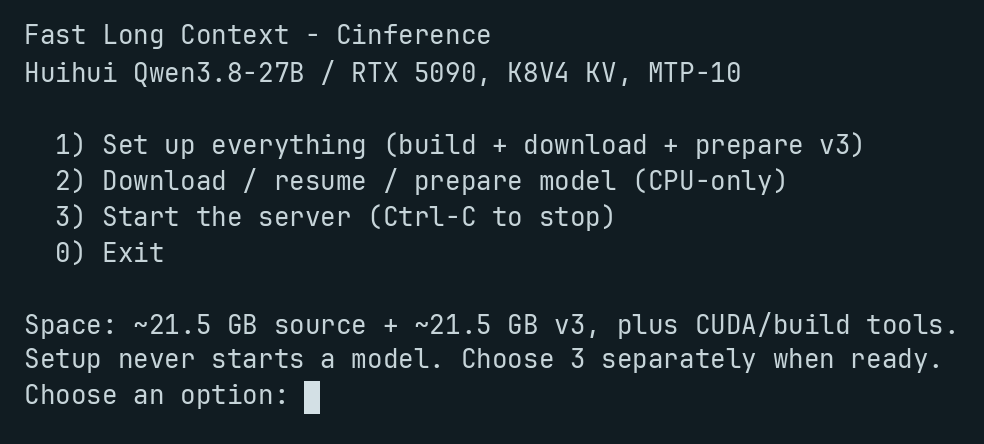
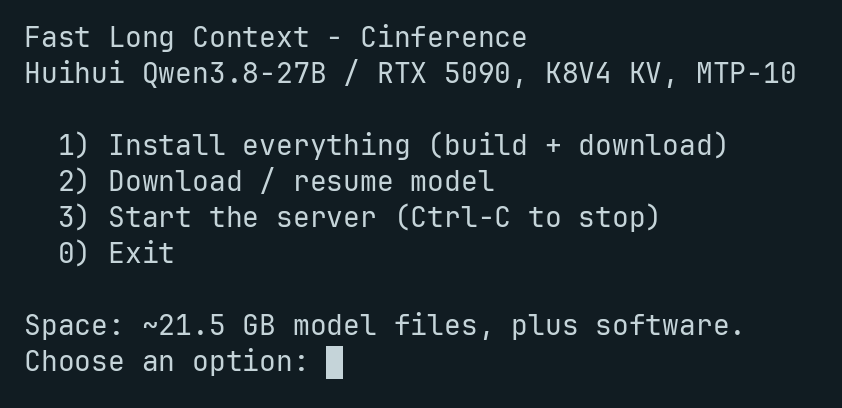
feat: download published Huihui v3 directly

Changed region(s): [[0.0309, 0.2941, 0.8955, 0.6471], [0.0, 0.7059, 0.9572, 0.9412], [0.0, 0.0588, 0.9572, 0.2059]]

diff --git a/scripts/download_models.py b/scripts/download_models.py
@@ -1,22 +1,14 @@
 #!/usr/bin/env python3
-"""Download pinned Huihui NVFP4 files and prepare a CPU-only NInfer v3 artifact."""
+"""Download and verify the pinned Huihui NVFP4 v3 artifact."""
 import argparse
 import fcntl
 import hashlib
 import json
 import os
 from pathlib import Path
-import shutil
 import stat
-import struct
-import subprocess
-import sys
-import tempfile
-import uuid
 
 ROOT = Path(__file__).resolve().parents[1]
-RECEIPT = "upgrade-receipt.json"
-OWNER = "preparation.json"
 
 
 def require_file(path):
@@ -24,14 +16,10 @@ def require_file(path):
         raise ValueError(f"Expected a regular, non-symlink file: {path}")
 
 
-def sha256(path):
+def verify_file(path, expected):
     require_file(path)
     with path.open("rb") as stream:
-        return hashlib.file_digest(stream, "sha256").hexdigest()
-
-
-def verify_file(path, expected):
-    actual = sha256(path)
+        actual = hashlib.file_digest(stream, "sha256").hexdigest()
     if actual != expected:
         raise ValueError(
             f"SHA-256 mismatch: {path}\nExpected {expected}; got {actual}.\n"
@@ -45,210 +33,48 @@ def ensure_directory(path):
     path.mkdir(parents=True, exist_ok=True)
 
 
-def artifact_identity(path, version):
+def verify_artifact(path, expected_size):
     require_file(path)
-    header_size = 16 if version == 2 else 32
-    size = path.stat().st_size
+    if path.stat().st_size != expected_size:
+        raise ValueError(f"Unexpected artifact size: {path}; expected {expected_size} bytes.")
     with path.open("rb") as stream:
-        header = stream.read(header_size)
-        if len(header) != header_size or header[:8] != b"NINFER\0" + bytes([version]):
-            raise ValueError(f"Expected NInfer v{version}: {path}")
-        count = struct.unpack_from("<Q", header, 8)[0]
-        if not 0 < count <= min(64 * 1024 * 1024, size - header_size):
-            raise ValueError(f"Invalid NInfer directory length: {path}")
-        directory = json.loads(stream.read(count))
-    if version == 2:
-        return directory["identity"]
-    if directory["files"] != [{"path": None, "payload_bytes": size - header_size - count}]:
-        raise ValueError(f"Expected a complete, single-file v3 artifact: {path}")
-    return {
-        "uuid": str(uuid.UUID(bytes=header[16:32])),
-        "upgraded_from": directory["provenance"]["upgraded_from"],
-    }
-
-
-def write_json(path, value):
-    with path.open("x", encoding="utf-8") as stream:
-        json.dump(value, stream, indent=2)
-        stream.write("\n")
-        stream.flush()
-        os.fsync(stream.fileno())
-
-
-def read_json(path):
-    require_file(path)
-    return json.loads(path.read_text(encoding="utf-8"))
-
-
-def sync_directory(path):
-    fd = os.open(path, os.O_RDONLY | os.O_DIRECTORY)
-    try:
-        os.fsync(fd)
-    finally:
-        os.close(fd)
-
-
-def output_identity(path):
-    return {
-        "filename": path.name,
-        "size_bytes": path.stat().st_size,
-        "format_version": 3,
-        "identity": artifact_identity(path, 3),
-        "sha256": sha256(path),
-    }
-
-
-def verify_prepared(directory, expected, basename):
-    if directory.is_symlink() or not directory.is_dir():
-        raise ValueError(f"Refusing an unrelated preparation path: {directory}")
-    receipt = read_json(directory / RECEIPT)
-    if {key: receipt.get(key) for key in expected} != expected:
-        raise ValueError(f"Preparation receipt does not match the pinned input/tools: {directory}")
-    print(f"Verifying prepared v3 artifact: {directory / basename}", flush=True)
-    if receipt.get("output") != output_identity(directory / basename):
-        raise ValueError(f"Prepared artifact differs from its receipt: {directory}")
-    for name, digest in expected["publisher_licenses"].items():
-        verify_file(directory / name, digest)
-
-
-def remove_incomplete(stage, basename):
-    # Only delete this recipe's known files in a directory with a matching owner
-    # record. Refuse extra files, subdirectories and symlinks, even in our staging.
-    allowed = {OWNER, RECEIPT, RECEIPT + ".tmp", basename, "LICENSE", "NOTICE"}
-    entries = list(stage.iterdir())
-    for entry in entries:
-        require_file(entry)
-        if entry.name not in allowed and not (
-            entry.name.startswith(f".{basename}.") and entry.name.endswith(".tmp")
-        ):
-            raise ValueError(f"Unrecognized staging file left untouched: {entry}")
-    # Keep ownership until the end so another attempt can recover from interruption.
-    for entry in entries:
-        if entry.name != OWNER:
-            entry.unlink()
-    (stage / OWNER).unlink()
-    stage.rmdir()
-
-
-def publish(stage, final):
-    if final.exists() or final.is_symlink():
-        raise ValueError(f"Refusing to replace an existing path: {final}")
-    sync_directory(stage)
-    stage.rename(final)
-    sync_directory(final.parent)
-
-
-def prepare_model(destination, model, runtime, lock_fd):
-    source = destination / model["source_filename"]
-    relative = Path(model["filename"])
-    if relative.parent != Path("v3") or relative.name != model["source_filename"]:
-        raise ValueError("The prepared artifact must use v3/ and the original basename.")
-    if (model["source_format_version"], model["format_version"]) != (2, 3):
-        raise ValueError("This recipe prepares NInfer v2 inputs as v3.")
-    if source.stat().st_size != model["size_bytes"]:
-        raise ValueError(f"Unexpected source size: {source}")
-    upgrader = ROOT / "runtime/ninfer/tools/upgrade_ninfer_v2_to_v3.py"
-    template = upgrader.parent / "chat_templates/qwen3_8.jinja"
-    if not upgrader.is_file() or not template.is_file():
-        raise ValueError("The pinned upgrader/templates are missing. Run bash setup.sh and choose 2.")
-    expected = {
-        "schema": "cinference.model-upgrade",
-        "schema_version": 1,
-        "input": {
-            "repo_id": model["repo_id"],
-            "revision": model["revision"],
-            "filename": model["source_filename"],
-            "size_bytes": model["size_bytes"],
-            "format_version": 2,
-            "identity": artifact_identity(source, 2),
-            "sha256": model["files"][model["source_filename"]],
-        },
-        "upgrader": {
-            "repo_id": runtime["repo_id"],
-            "revision": runtime["revision"],
-            "script": "tools/upgrade_ninfer_v2_to_v3.py",
-            "sha256": sha256(upgrader),
-            "chat_template_sha256": sha256(template),
-        },
-        "publisher_licenses": {name: model["files"][name] for name in ("LICENSE", "NOTICE")},
-        "statement_of_changes": (
-            "NInfer v2 container upgraded to v3 by Cinference's standard-library tool. "
-            "Weight bytes preserved; the maintained Qwen3.8 chat template is installed. "
-            "The publisher's original artifact and attribution files are retained unchanged."
-        ),
-    }
-    final = destination / "v3"
-    basename = relative.name
-    if final.exists() or final.is_symlink():
-        verify_prepared(final, expected, basename)
-        print("Reusing the verified v3 conversion.", flush=True)
-        return
-
-    for stage in sorted(destination.glob(".v3-prepare-*")):
-        # An unmarked directory is not ours to modify. A crash before writing the
-        # owner record can leave an empty one; a fresh unique stage is safe.
-        if stage.is_symlink() or not stage.is_dir() or not (stage / OWNER).exists():
-            continue
-        if read_json(stage / OWNER) != expected:
-            raise ValueError(f"Staging belongs to different inputs/tools; move it aside: {stage}")
-        if (stage / RECEIPT).exists():
-            verify_prepared(stage, expected, basename)
-            publish(stage, final)
-            print("Published the previously completed v3 conversion.", flush=True)
-            return
-        print(f"Removing only recognized incomplete conversion files: {stage}", flush=True)
-        remove_incomplete(stage, basename)
-
-    if shutil.disk_usage(destination).free < model["size_bytes"] + 16 * 1024 * 1024:
-        raise ValueError("Preparation needs about 21.5 GB of free space in addition to the retained source.")
-    stage = Path(tempfile.mkdtemp(prefix=".v3-prepare-", dir=destination))
-    write_json(stage / (OWNER + ".tmp"), expected)
-    (stage / (OWNER + ".tmp")).rename(stage / OWNER)
-    sync_directory(stage)
-    print("Preparing v3 on the CPU; weights are never loaded onto the GPU...", flush=True)
-    # Keep the lock alive in the child even if the parent is killed. A later
-    # attempt cannot remove staging while the upgrader is still writing to it.
-    subprocess.run(
-        [sys.executable, str(upgrader), str(source), str(stage / basename)],
-        check=True,
-        pass_fds=(lock_fd,),
-    )
-    output = output_identity(stage / basename)
-    identity = expected["input"]["identity"]
-    if output["identity"]["upgraded_from"] != {
-        "version": 2, "model_id": identity["model_id"], "weights_id": identity["weights_id"]
-    }:
-        raise ValueError("The upgraded artifact has unexpected input provenance.")
-    for name, digest in expected["publisher_licenses"].items():
-        with (stage / name).open("xb") as stream:
-            stream.write((destination / name).read_bytes())
-            stream.flush()
-            os.fsync(stream.fileno())
-        verify_file(stage / name, digest)
-    write_json(stage / (RECEIPT + ".tmp"), {**expected, "output": output})
-    (stage / (RECEIPT + ".tmp")).rename(stage / RECEIPT)
-    publish(stage, final)
+        header = stream.read(32)
+    if len(header) != 32 or header[:8] != b"NINFER\0\x03":
+        raise ValueError(f"Expected a NInfer v3 artifact: {path}")
 
 
 def main():
     parser = argparse.ArgumentParser(description=__doc__)
     parser.add_argument("--models-dir", type=Path, default=ROOT / "models")
     args = parser.parse_args()
-    manifest = read_json(ROOT / "runtime-manifest.json")
-    model = manifest["models"]["target"]
+    manifest_path = ROOT / "runtime-manifest.json"
+    require_file(manifest_path)
+    model = json.loads(manifest_path.read_text(encoding="utf-8"))["models"]["target"]
+    if model["format_version"] != 3 or model["filename"] not in model["files"]:
+        raise ValueError("The manifest must pin a published v3 artifact and its checksum.")
+    for name in (model["directory"], *model["files"]):
+        relative = Path(name)
+        if relative.is_absolute() or ".." in relative.parts or not relative.name:
+            raise ValueError(f"Expected a relative manifest path: {name}")
     ensure_directory(args.models_dir)
-    destination = args.models_dir / model["directory"]
-    ensure_directory(destination)
-    fd = os.open(destination / ".cinference-prepare.lock", os.O_CREAT | os.O_RDWR | os.O_NOFOLLOW, 0o600)
+    destination = args.models_dir
+    for part in Path(model["directory"]).parts:
+        destination /= part
+        ensure_directory(destination)
+    fd = os.open(destination / ".cinference-download.lock", os.O_CREAT | os.O_RDWR | os.O_NOFOLLOW, 0o600)
     with os.fdopen(fd, "r+") as lock:
         if not stat.S_ISREG(os.fstat(lock.fileno()).st_mode):
-            raise ValueError("The preparation lock must be a regular file.")
-        print("Waiting for exclusive download/preparation access...", flush=True)
+            raise ValueError("The download lock must be a regular file.")
+        print("Waiting for exclusive download access...", flush=True)
         fcntl.flock(lock, fcntl.LOCK_EX)
         print(f"Huihui NVFP4: {model['repo_id']} @ {model['revision']}", flush=True)
-        print("Verifying artifact, publisher licenses, and provenance checksums...", flush=True)
+        print("Verifying model file checksums...", flush=True)
         missing = []
         for name, digest in model["files"].items():
+            parent = destination
+            for part in Path(name).parent.parts:
+                parent /= part
+                ensure_directory(parent)
             path = destination / name
             if path.exists() or path.is_symlink():
                 verify_file(path, digest)
@@ -258,8 +84,8 @@ def main():
         if missing:
             from huggingface_hub import snapshot_download
 
-            # Never redownload over an existing unrelated file. The hub's local
-            # cache retains partial downloads for files that are still missing.
+            # The local cache retains partial downloads. Existing files are
+            # verified above and excluded so unrelated data is not overwritten.
             for directory in (destination / ".cache", destination / ".cache/huggingface"):
                 ensure_directory(directory)
             snapshot_download(
@@ -271,13 +97,13 @@ def main():
             for name in missing:
                 verify_file(destination / name, model["files"][name])
                 print(f"Verified: {name}", flush=True)
-        prepare_model(destination, model, manifest["runtime"], lock.fileno())
+        verify_artifact(destination / model["filename"], model["size_bytes"])
     print(f"Ready: {destination / model['filename']}", flush=True)
-    print("Download and preparation complete. No model has been started.", flush=True)
+    print("Download complete.", flush=True)
 
 
 if __name__ == "__main__":
     try:
         main()
-    except (OSError, ValueError, KeyError, subprocess.CalledProcessError) as error:
-        raise SystemExit(f"Preparation failed: {error}\nNo existing v3 directory was overwritten.") from error
+    except (OSError, ValueError, KeyError) as error:
+        raise SystemExit(f"Download failed: {error}") from error

diff --git a/README.md b/README.md
@@ -18,10 +18,10 @@ bash setup.sh
 
 ![Cinference setup menu](assets/setup-menu.png)
 
-1. Choose **1** to install everything, download the model, and prepare it automatically. Allow **43 GB for model files**, plus software.
+1. Choose **1** to install everything and download the model. Allow **~21.5 GB for model files**, plus software.
 2. Choose **3** to start the server. Leave the terminal open while using it.
 
-Choose **2** to resume an interrupted download or preparation. **Ctrl+C** stops the server. Setup never starts it automatically or changes your NVIDIA driver.
+Choose **2** to download the model or resume an interrupted download. **Ctrl+C** stops the server.
 
 ## Connect to your favorite AI app
 
@@ -44,4 +44,4 @@ Huihui Qwen3.8-27B Abliterated NVFP4. Generation speed on synthetic recall, thin
 
 ## Credits
 
-Cinference, NInfer, Qwen, Huihui AI, and Barding-Defense. [Model](https://huggingface.co/Barding-Defense/Qwen3.8-27B-huihui-abliterated-NVFP4-NInfer) · [Settings](runtime-manifest.json) · [Attribution](NOTICE).
+Cinference, NInfer, Qwen, Huihui AI, and Barding-Defense. [Model](https://huggingface.co/satellitedown/Huihui-Qwen3.8-27B-abliterated-NVFP4-NInfer-v3) · [Settings](runtime-manifest.json) · [Attribution](NOTICE).
